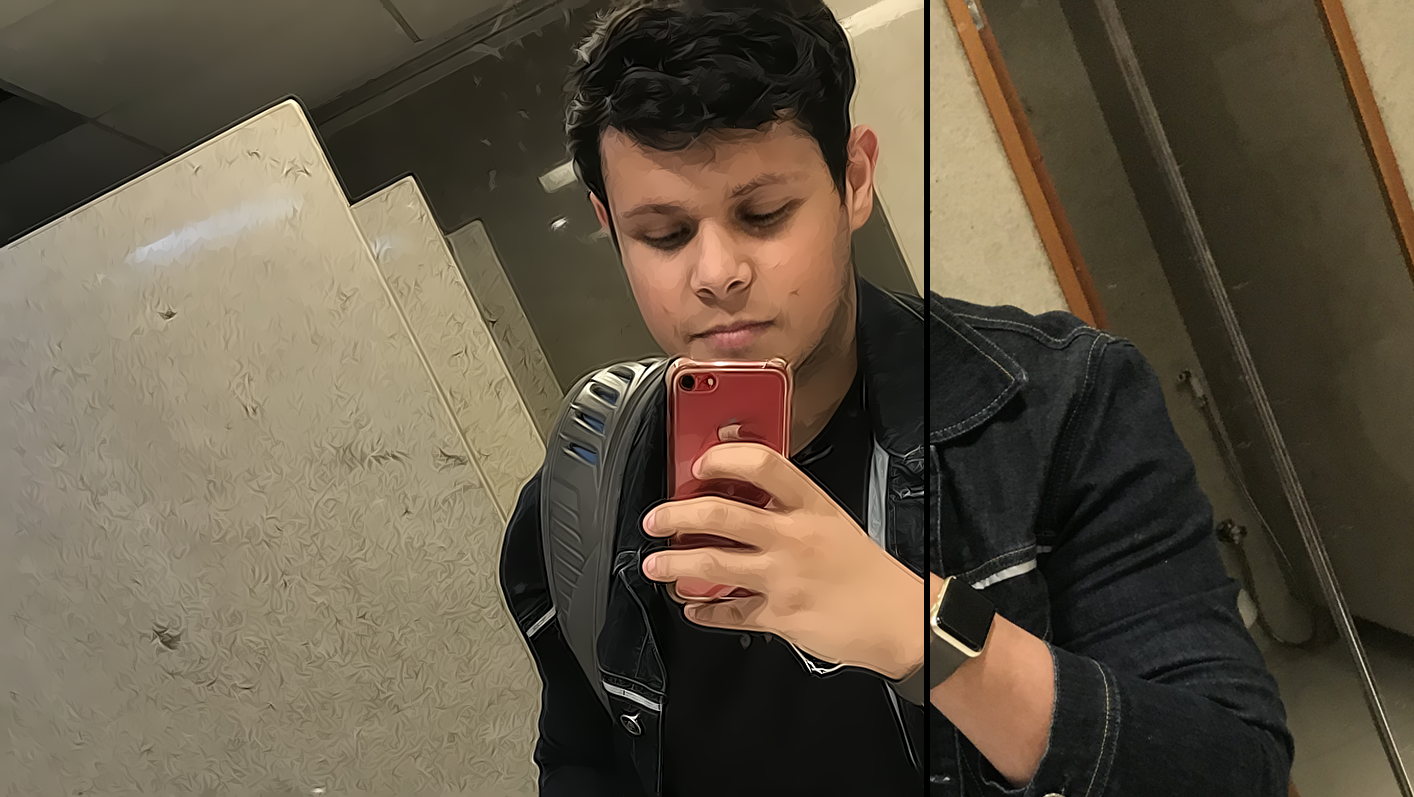
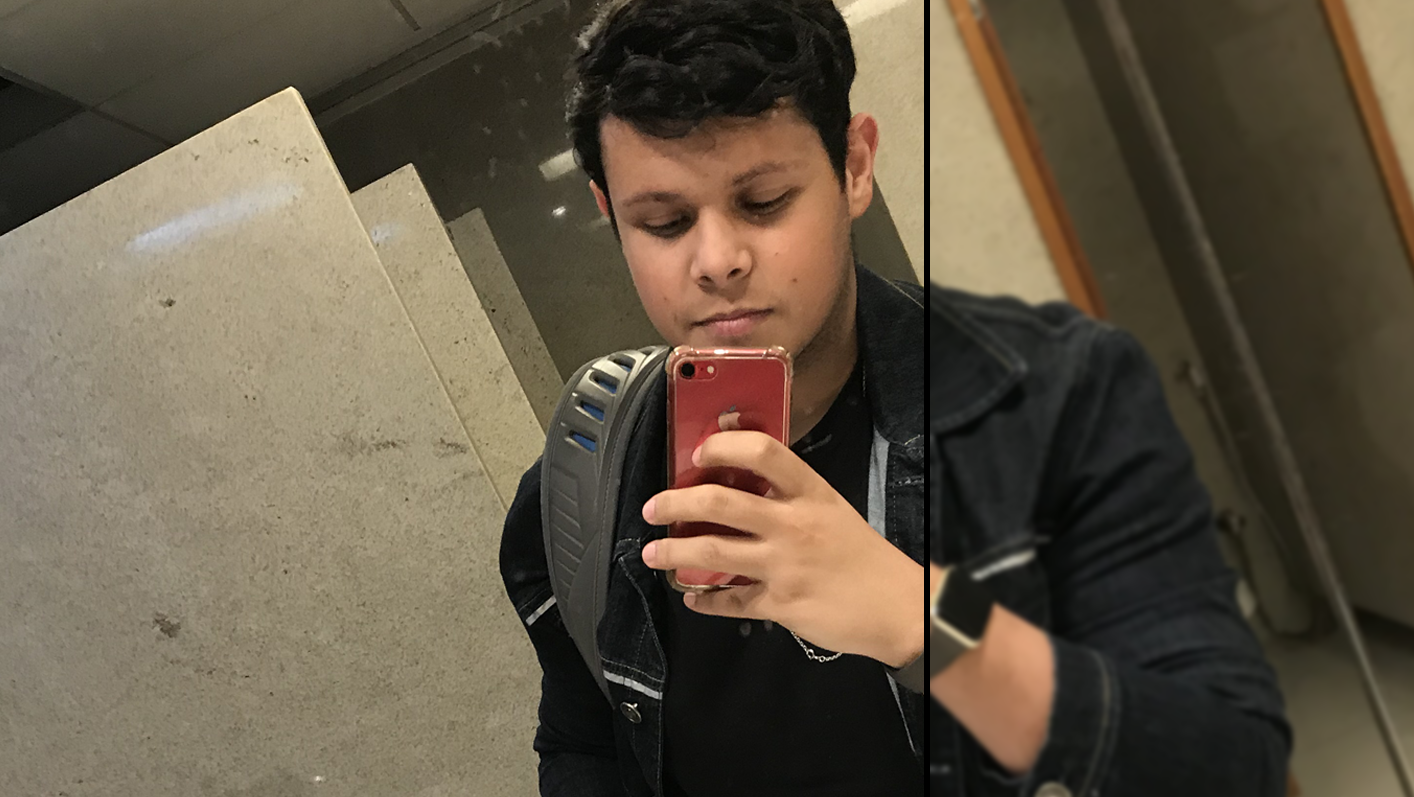
Create variation -second for tittle

diff --git a/index.html b/index.html
@@ -17,11 +17,14 @@
     <link rel="stylesheet" href="CSS/reset.css">
     <link rel="stylesheet" href="CSS/components/header.css">
     <link rel="stylesheet" href="CSS/components/banner.css">
+    <link rel="stylesheet" href="CSS/components/background.css">
     <link rel="stylesheet" href="CSS/components/tittle.css">
     <link rel="stylesheet" href="CSS/components/subtittle.css">
     <link rel="stylesheet" href="CSS/components/box.css">
     <link rel="stylesheet" href="CSS/components/button.css">
     <link rel="stylesheet" href="CSS/components/action.css">
+    <link rel="stylesheet" href="CSS/components/text.css">
+
 
 
     
@@ -61,8 +64,11 @@
                         </div>
 
                 </div>
-        </section>            
+        </section>
 
-        
+       
+                    <h2 class="tittle -second">Skills</h2>
+                    
+
     </body>
 </html>

diff --git a/CSS/components/banner.css b/CSS/components/banner.css
@@ -1,6 +1,6 @@
 .banner {
     box-sizing: border-box;
-    background-image: url(../../assets/img/photo1.png);
+    background-image: url(../../assets/img/photo.png);
     background-repeat: no-repeat;
     background-size: 100%;
     height: 900px;

diff --git a/CSS/components/tittle.css b/CSS/components/tittle.css
@@ -5,3 +5,10 @@
     font-size: 40px;
     text-shadow: 4px 4px 0px #000000;
 }
+
+.tittle.-second {
+    color: #fff;
+    text-shadow: none;
+    margin-top: 50px;
+    text-align: center;
+}
